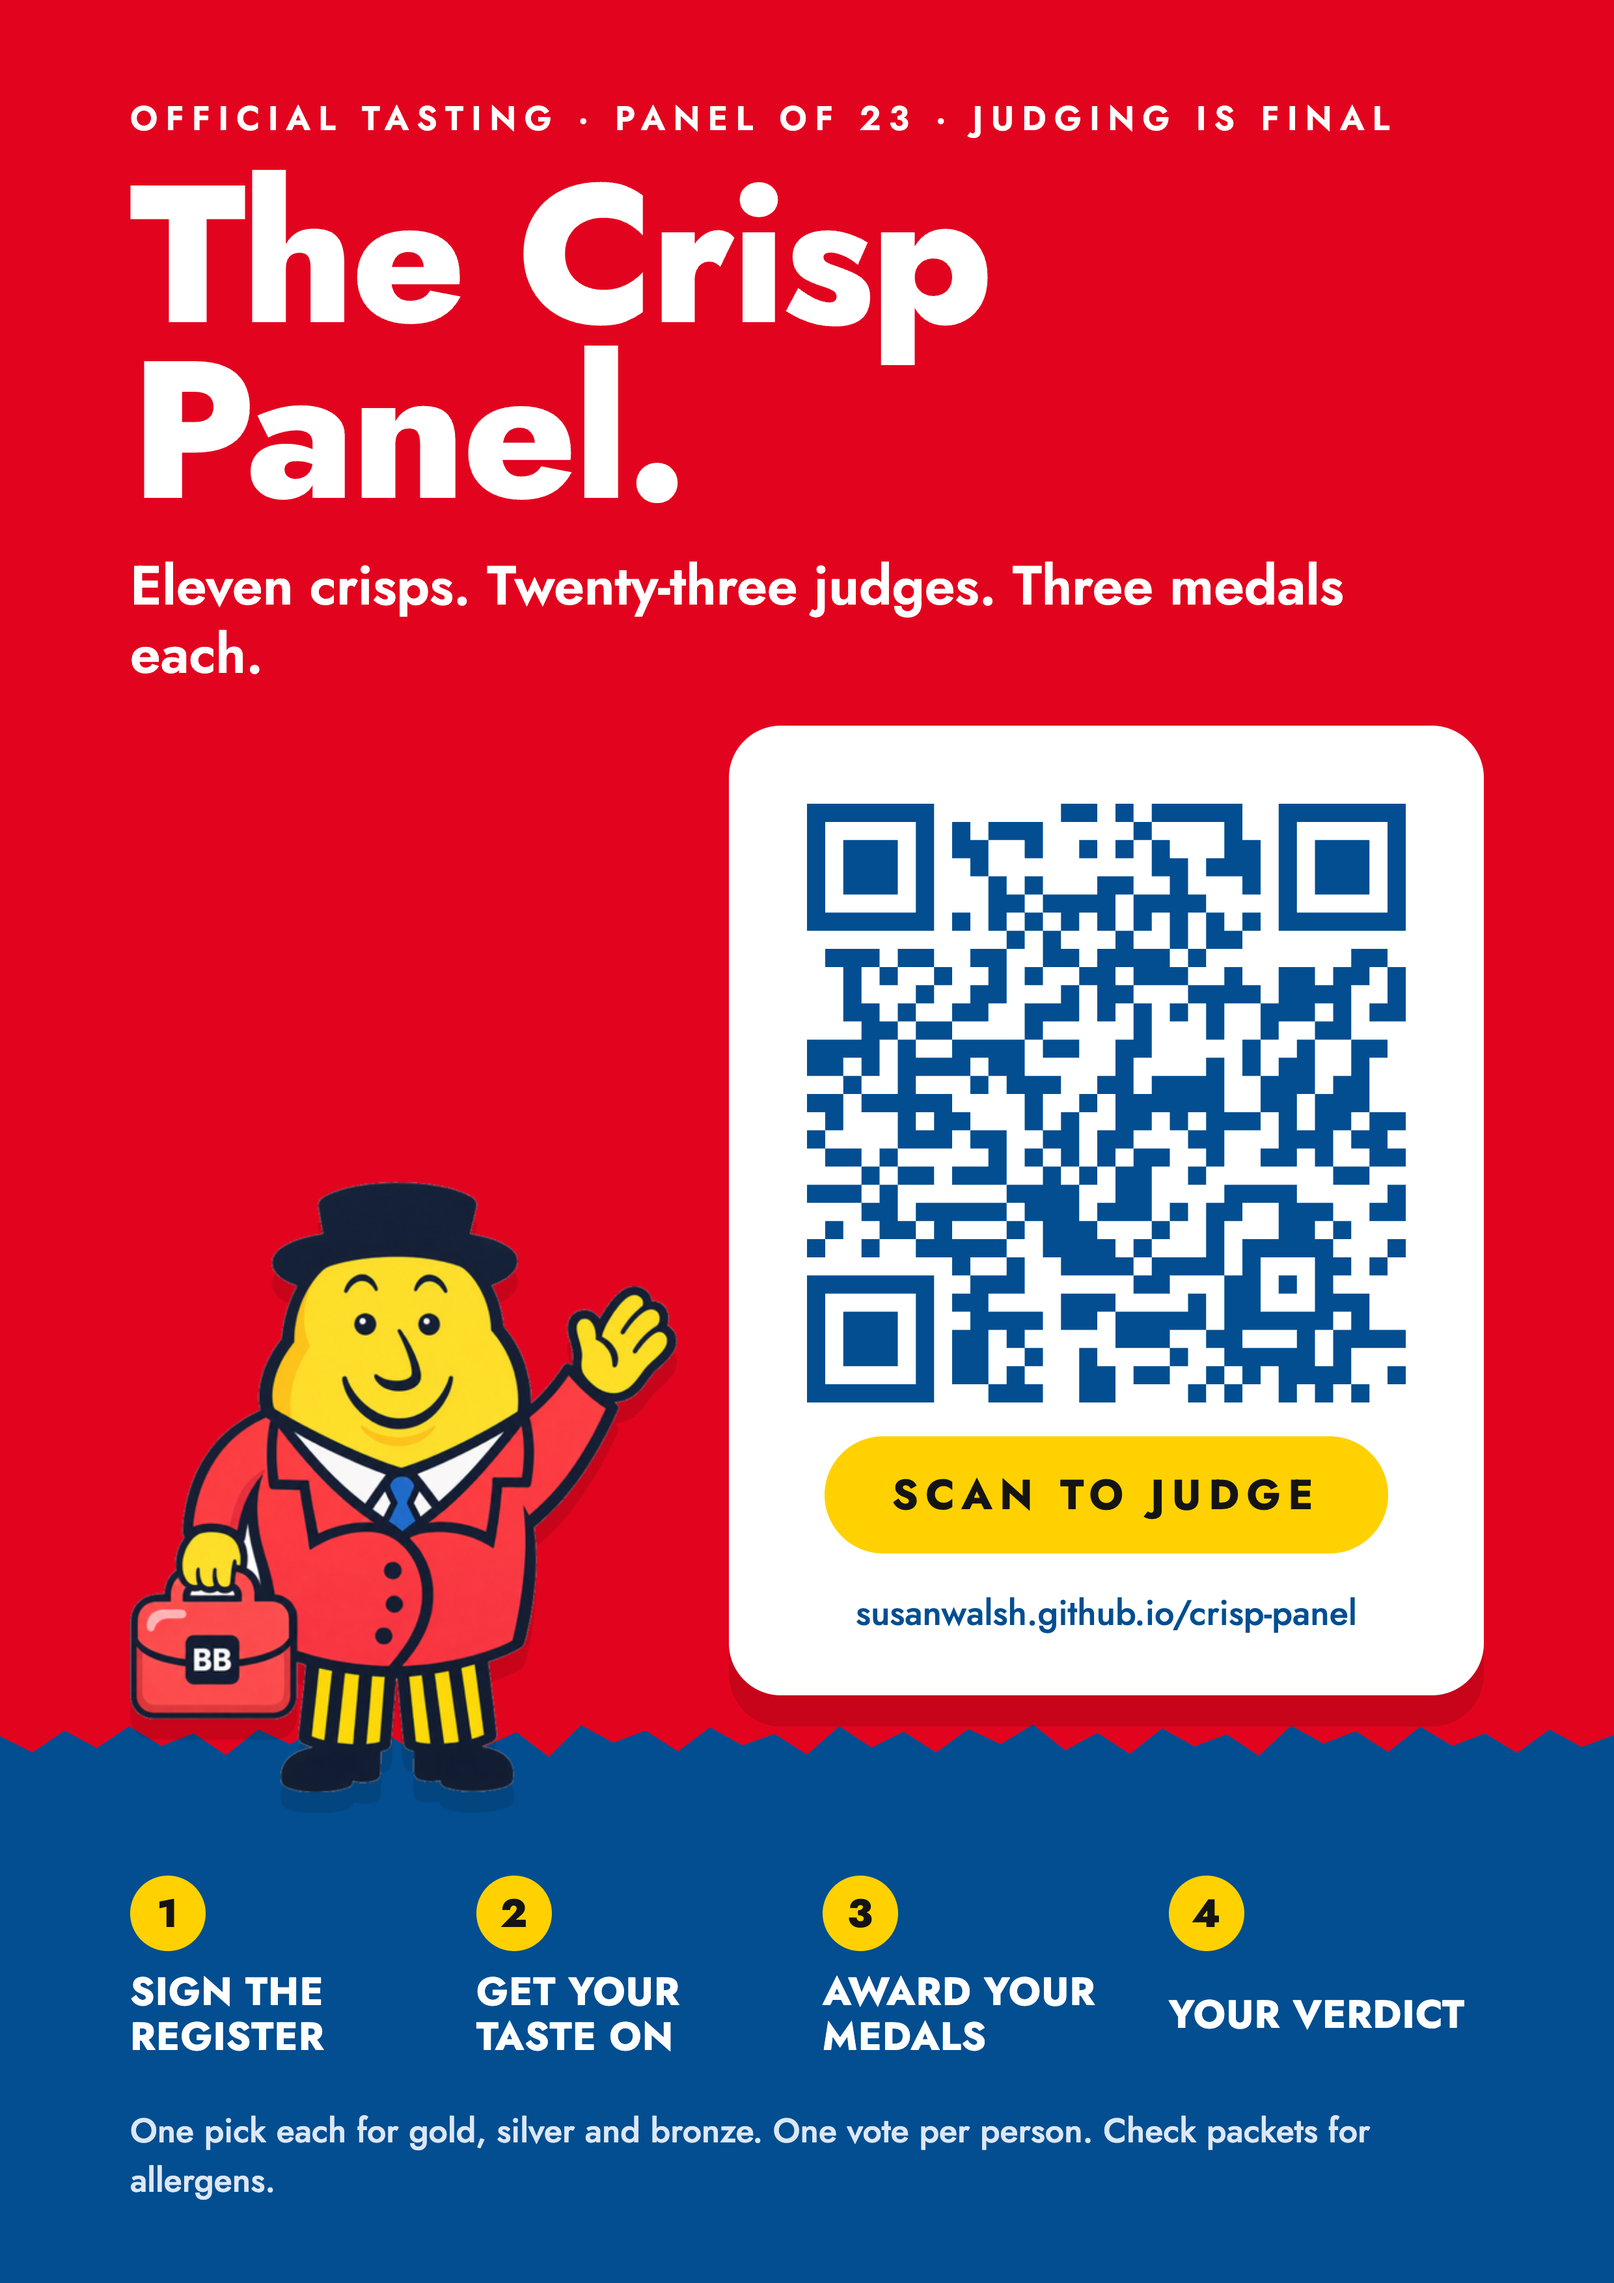
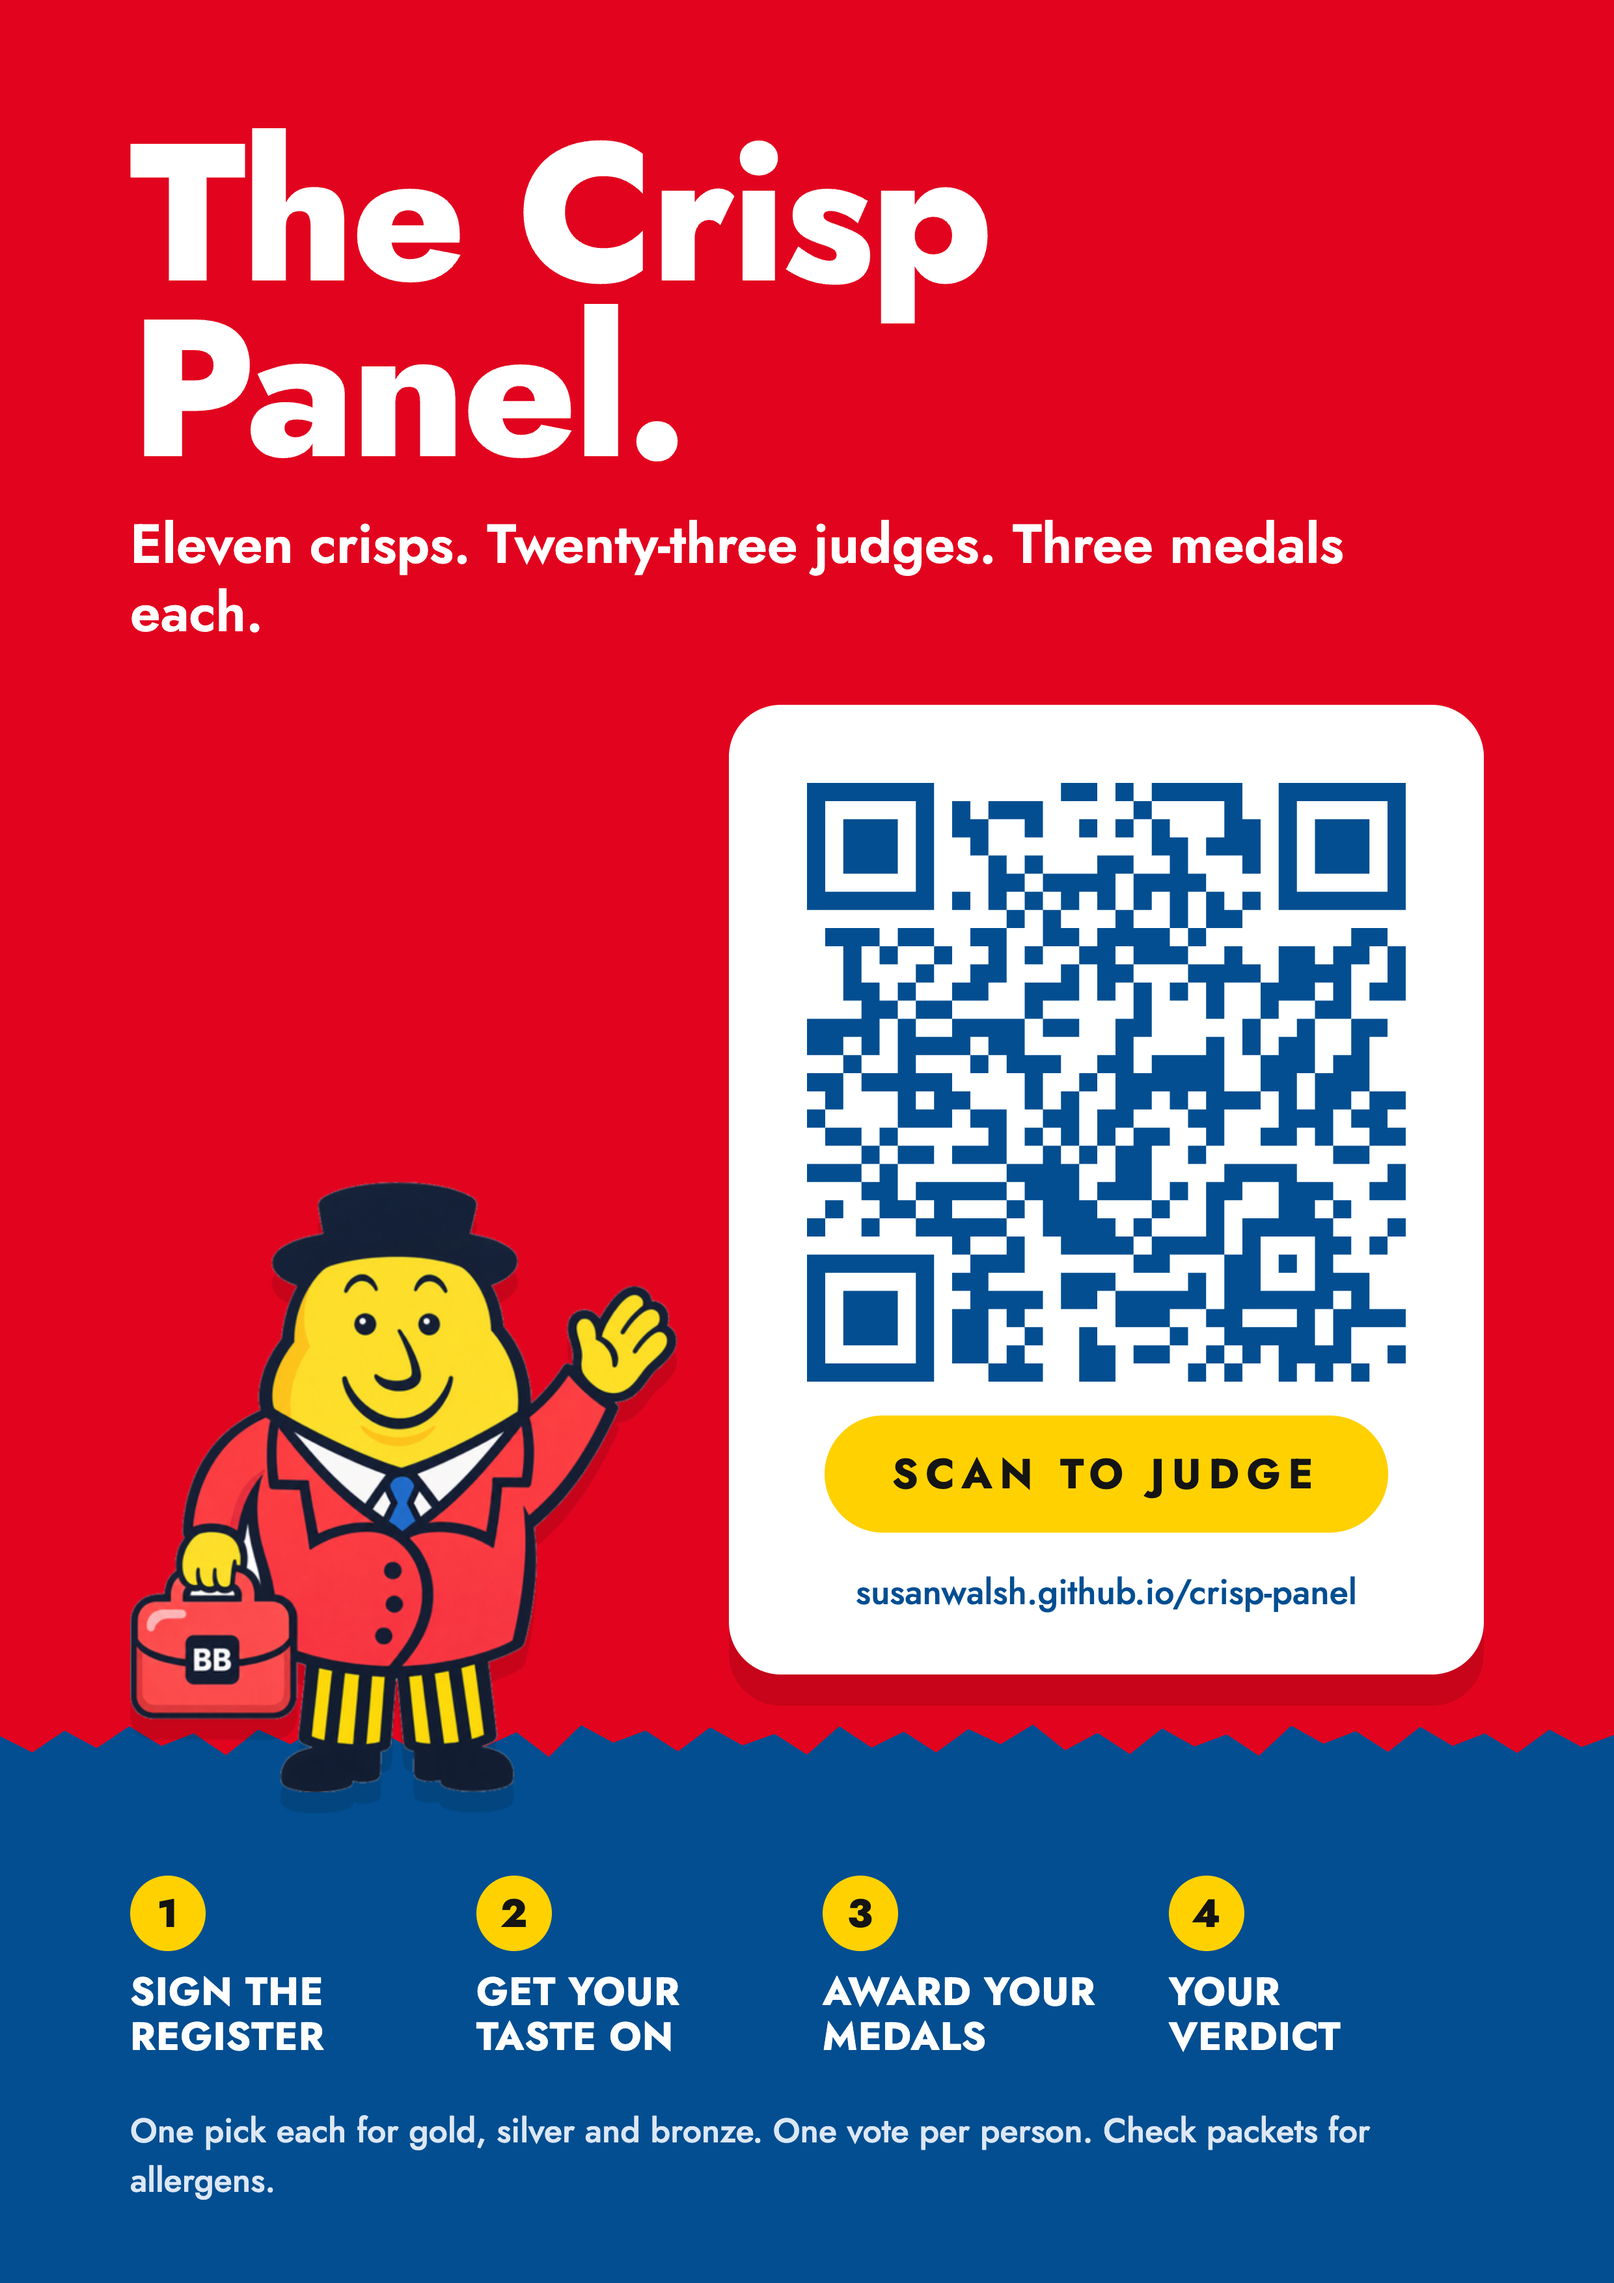
Poster: drop the strapline and wrap step 4 like the others

diff --git a/poster.html b/poster.html
@@ -23,7 +23,7 @@ html, body { margin: 0; background: #D9DDE3; }
   position: relative; overflow: hidden;
   display: grid; grid-template-rows: auto 1fr auto;
 }
-.top { padding: 72px 100px 0; display: grid; gap: 18px; }
+.top { padding: 96px 100px 0; display: grid; gap: 18px; }
 .eyebrow { font-weight: 600; font-size: 26px; letter-spacing: 0.24em; text-transform: uppercase; }
 h1 { margin: 0; font-weight: 800; font-size: 150px; line-height: 0.9; letter-spacing: -0.02em; }
 .lede { font-weight: 600; font-size: 42px; line-height: 1.25; margin-top: 8px; }
@@ -65,7 +65,6 @@ h1 { margin: 0; font-weight: 800; font-size: 150px; line-height: 0.9; letter-spa
 <body>
 <main class="poster">
   <section class="top">
-    <p class="eyebrow" style="margin:0">Official tasting · Panel of 23 · Judging is final</p>
     <h1>The Crisp<br>Panel.</h1>
     <p class="lede" style="margin:8px 0 0">Eleven crisps. Twenty-three judges. Three medals each.</p>
   </section>
@@ -84,7 +83,7 @@ h1 { margin: 0; font-weight: 800; font-size: 150px; line-height: 0.9; letter-spa
       <li><b>1</b>Sign the register</li>
       <li><b>2</b>Get your taste on</li>
       <li><b>3</b>Award your medals</li>
-      <li><b>4</b>Your verdict</li>
+      <li><b>4</b>Your<br>verdict</li>
     </ol>
     <p class="note" style="margin:36px 0 0">One pick each for gold, silver and bronze. One vote per person. Check packets for allergens.</p>
   </section>
